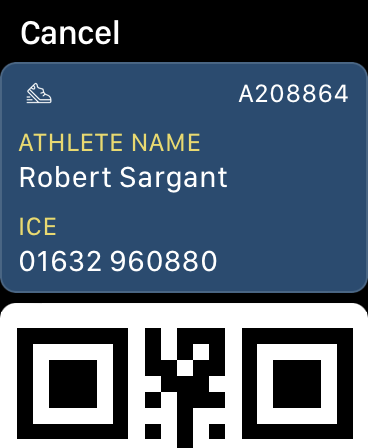
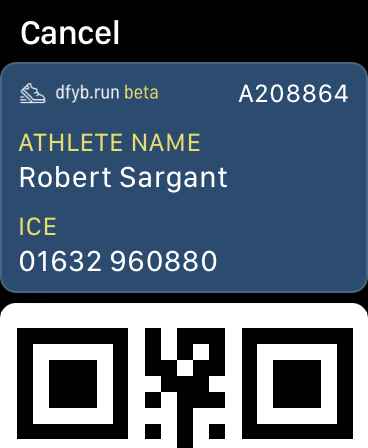
Updated branding & fonts

Changed region(s): [[0.0598, 0.1875, 0.4484, 0.25]]

diff --git a/src/App.tsx b/src/App.tsx
@@ -11,22 +11,22 @@ const Link: React.FC<LinkProps> = ({ href, children }) => (
 )
 
 const SectionHeader: React.FC = ({ children }) => (
-  <h3 className="text-primary font-bold text-xl pb-2">
+  <h3 className="text-primary font-header font-bold text-xl mt-8 mb-2">
     {children}
   </h3>
 )
 
 const Paragraph: React.FC = ({ children }) => (
-  <p className="pb-4">
+  <p className="mb-4">
     {children}
   </p>
 )
 
 const App: React.FC = () => (
-  <div>
+  <>
     <div className="bg-primary text-white flex flex-col justify-center items-center text-center p-8">
-      <img src="/logo.svg" alt="dfyb.run logo" className="w-16 md:w-24 opacity-50" />
-      <h1 className="text-4xl md:text-6xl opacity-75">
+      <img src="/logo.svg" alt="dfyb.run logo" className="w-16 md:w-24" />
+      <h1 className="text-4xl md:text-6xl font-header">
         dfyb.run <span className="text-secondary">beta</span>
       </h1>
       <p className="pt-8">
@@ -46,7 +46,7 @@ const App: React.FC = () => (
           As iPhones and Apple Watches have the <Link href="https://www.apple.com/wallet/">Apple Wallet</Link> feature that make ID passes and barcodes easily accessible,
           it seemed like a great fit!
         </Paragraph>
-        <div className="flex flex-row justify-around pb-8">
+        <div className="flex flex-row justify-around my-4">
           <div className="w-64 bg-light-500 p-4 rounded-lg text-center">
             <div className="bg-black p-1 rounded-lg">
               <img className="object-cover" src="/iphone-screenshot.png" alt="The pass on an iPhone" />
@@ -129,7 +129,7 @@ const App: React.FC = () => (
         <BarcodeForm />
       </div>
     </div>
-  </div>
+  </>
 );
 
 export default App;

diff --git a/windi.config.js b/windi.config.js
@@ -13,8 +13,10 @@ export default defineConfig({
       colors: {
         primary: '#204C72',
         secondary: '#ECD95F'
+      },
+      fontFamily: {
+        header: ['"Barlow Semi Condensed"', 'sans-serif']
       }
     }
   }
 })
-

diff --git a/src/index.tsx b/src/index.tsx
@@ -2,6 +2,7 @@ import React from 'react';
 import ReactDOM from 'react-dom';
 import App from './App';
 
+import './fonts.css'
 import './virtual:windi.css'
 
 ReactDOM.render(

diff --git a/src/fonts.css b/src/fonts.css
@@ -1,0 +1,1 @@
+@import url('https://fonts.googleapis.com/css2?family=Barlow+Semi+Condensed:wght@400;700&display=swap');
